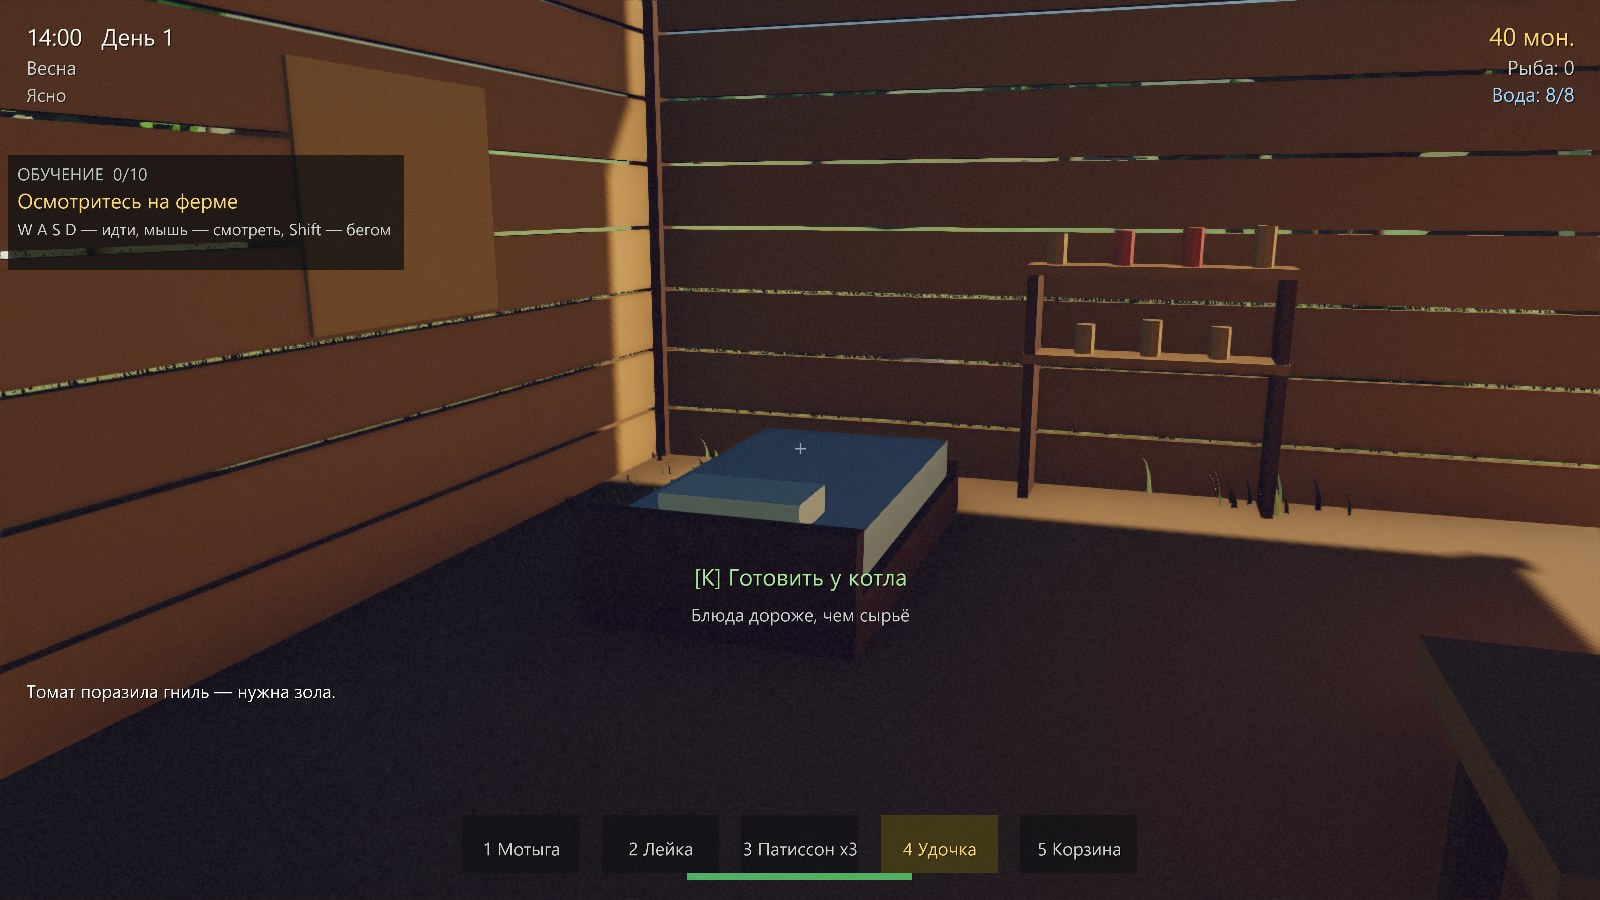
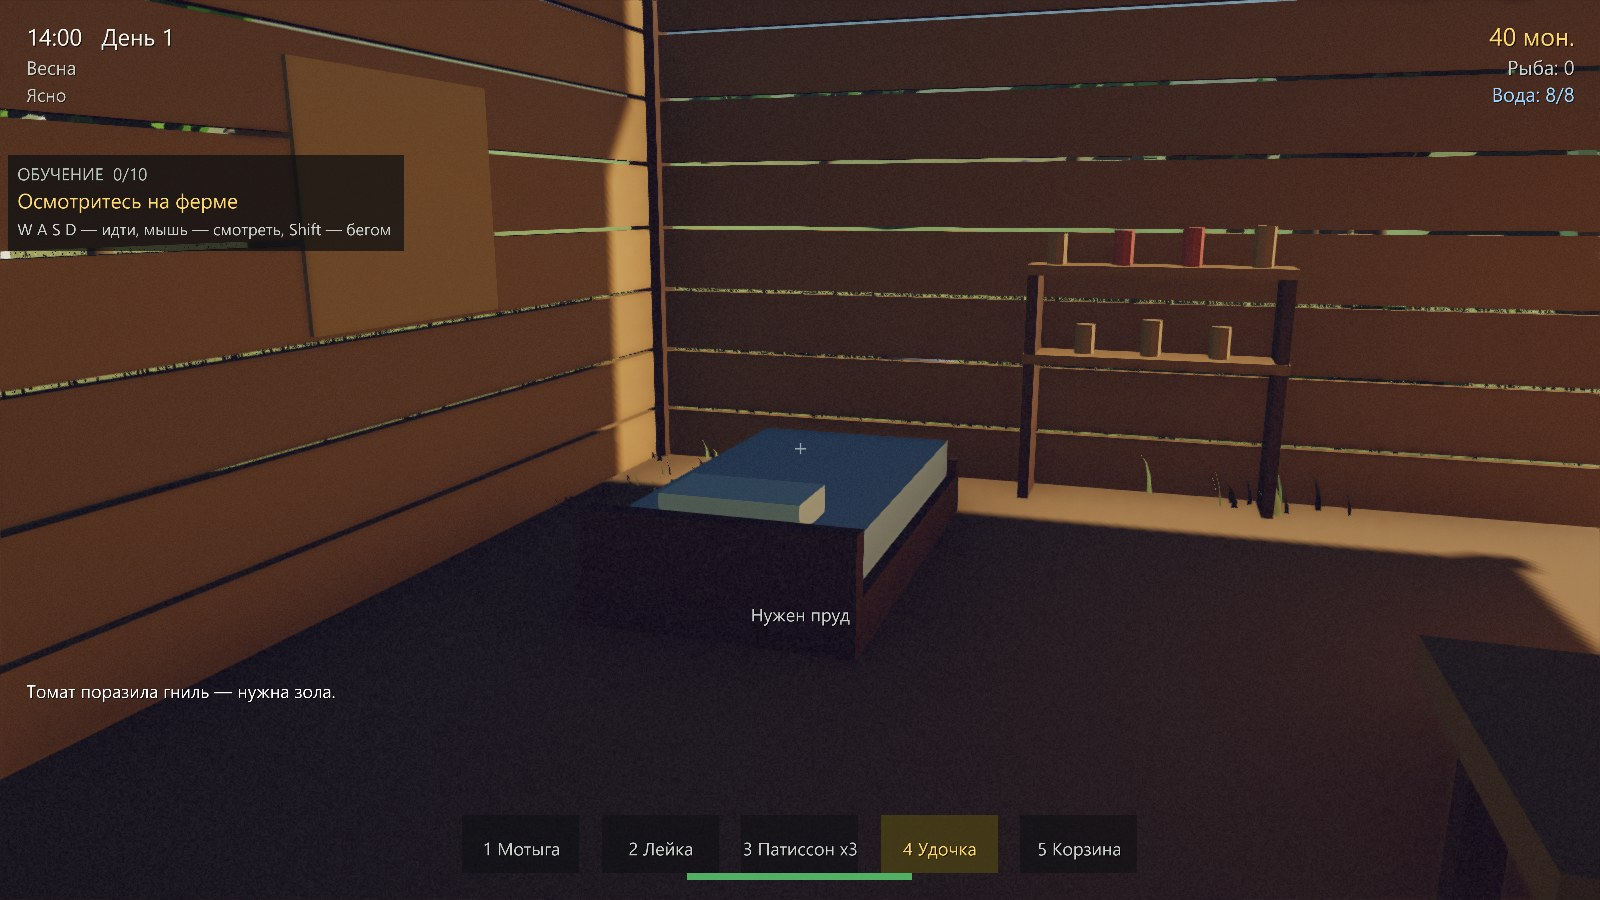
Patisson 2.0: prompts stop at walls
The cooking pot stands about two metres from the house and its interact
radius reaches four and a half, so 201 places a player can stand inside
the house offered "[K] Готовить" at a cauldron on the other side of a
wall. The committed screenshot of the house interior has been showing
that prompt this whole time -- it is in 07b-house-inside.jpg, over the
bed, in a room with no pot in it.

The radii are round numbers somebody picked. Walls are where the world
actually stops, so the test is no longer only "am I within N metres" but
also "are we on the same side of the walls", read from the layout that
already knows. That covers the stall, the well and the bed too, and any
prop added later.

Two smaller things found on the way. The cauldron had no blocker at all,
so a player could stand in the middle of it; it gets one. And
POT_POSITION was the pot's coordinates written out a second time, next
to the copy in LAYOUT that the map marker and the new blocker read -- it
now comes from the layout.

Check 65 sweeps every standable spot around the stall, pot, well and bed
and asks the game's own _near_* whether the prompt fires. It fails on the
old code with "котёл: подсказка работает из (12.2, -11.1) — это house, а
сам объект снаружи". The first draft of the sweep repeated the distance
test instead of calling the game, and went on reporting the bug after it
was fixed; that is why it calls the real predicate.

diff --git a/patisson2/tools/smoke.py b/patisson2/tools/smoke.py
@@ -438,6 +438,60 @@ def run() -> int:
             assert here >= water, f"«{label}»: игрок оказался в воде"
     check("перенос ставит на твёрдое", travel_lands_somewhere_standable)
 
+    def prompts_stop_at_walls():
+        """No prompt may reach through a wall.
+
+        The cooking pot stands about two metres from the house and its
+        prompt reached four and a half, so 201 places a player can stand
+        *inside the house* were offered "[K] Готовить" at a cauldron on
+        the other side of a wall. The radii are round numbers somebody
+        picked; walls are where the world actually stops. Every spot is
+        judged by the game's own `_near_*`, not by repeating the distance
+        test here — the first version of this sweep repeated it and went
+        on reporting the bug after it was fixed.
+        """
+        from ..game.cooking import POT_POSITION
+        from ..world.layout import LAYOUT, indoors_at
+
+        sx, sy, _sh = LAYOUT["market_stall"]
+        wx, wy, _wh = LAYOUT["well"]
+        bx, by = app.props.bed_pos[0], app.props.bed_pos[1]
+        spots = (("прилавок", sx, sy, 4.0, app._near_stall),
+                 ("котёл", POT_POSITION[0], POT_POSITION[1], 4.5, app._near_pot),
+                 ("колодец", wx, wy, 3.0, app._near_well),
+                 ("кровать", bx, by, 1.9, app._near_bed))
+        keep = (app.player.pos.x, app.player.pos.y)
+        step = 0.3
+        try:
+            for name, px, py, radius, near in spots:
+                room = indoors_at(px, py)
+                reach, wrong = 0, None
+                n = int(radius / step) + 1
+                for i in range(-n, n + 1):
+                    for j in range(-n, n + 1):
+                        x, y = px + i * step, py + j * step
+                        z = app.world.height_at(x, y)
+                        if z <= app.cfg.world.water_level + 0.05:
+                            continue
+                        nx, ny = app.world.blockers.resolve(x, y, 0.34, z)
+                        if (nx - x) ** 2 + (ny - y) ** 2 > 1e-6:
+                            continue          # solid: nobody can stand here
+                        stand(x, y)
+                        if not near():
+                            continue
+                        reach += 1
+                        if wrong is None and indoors_at(x, y) != room:
+                            wrong = (x, y, indoors_at(x, y))
+                assert reach > 0, \
+                    f"{name}: подсказка не появляется вообще нигде"
+                assert wrong is None, \
+                    f"{name}: подсказка работает из ({wrong[0]:.1f}, " \
+                    f"{wrong[1]:.1f}) — это {wrong[2] or 'снаружи'}, " \
+                    f"а сам объект {room or 'снаружи'}"
+        finally:
+            stand(*keep)
+    check("подсказки не проходят сквозь стены", prompts_stop_at_walls)
+
     def schedules_are_walkable():
         """Villagers must stand somewhere a person could stand, and get there.
 

diff --git a/patisson2/app.py b/patisson2/app.py
@@ -804,14 +804,31 @@ class PatissonApp(ShowBase):
 
     # ----------------------------------------------------------- interaction
 
+    def _same_room(self, x: float, y: float) -> bool:
+        """Is that spot on the player's side of the walls?
+
+        The interact radii are round numbers somebody chose; walls are
+        where the world actually stops. The cooking pot stands about two
+        metres from the house and its prompt reaches four and a half, so
+        201 places a player can stand *inside the house* were offered
+        "[K] Готовить" at a cauldron on the other side of a wall.
+        """
+        from .world.layout import indoors_at
+        return indoors_at(x, y) == indoors_at(self.player.pos.x,
+                                              self.player.pos.y)
+
     def _near_stall(self) -> bool:
         from .world.props import LAYOUT
         sx, sy, _h = LAYOUT["market_stall"]
-        return (self.player.pos.x - sx) ** 2 + (self.player.pos.y - sy) ** 2 < 16.0
+        return ((self.player.pos.x - sx) ** 2
+                + (self.player.pos.y - sy) ** 2 < 16.0
+                and self._same_room(sx, sy))
 
     def _near_pot(self) -> bool:
         px, py = POT_POSITION
-        return (self.player.pos.x - px) ** 2 + (self.player.pos.y - py) ** 2 < 20.0
+        return ((self.player.pos.x - px) ** 2
+                + (self.player.pos.y - py) ** 2 < 20.0
+                and self._same_room(px, py))
 
     def _near_bed(self, reach: float = 1.9) -> bool:
         bed = getattr(self.props, "bed_pos", None)
@@ -819,7 +836,8 @@ class PatissonApp(ShowBase):
             return False
         dx = self.player.pos.x - bed[0]
         dy = self.player.pos.y - bed[1]
-        return dx * dx + dy * dy < reach * reach
+        return (dx * dx + dy * dy < reach * reach
+                and self._same_room(bed[0], bed[1]))
 
     def _sleep(self):
         """Sleep through to six in the morning, waking rested."""
@@ -835,7 +853,9 @@ class PatissonApp(ShowBase):
     def _near_well(self) -> bool:
         from .world.props import LAYOUT
         wx, wy, _h = LAYOUT["well"]
-        return (self.player.pos.x - wx) ** 2 + (self.player.pos.y - wy) ** 2 < 9.0
+        return ((self.player.pos.x - wx) ** 2
+                + (self.player.pos.y - wy) ** 2 < 9.0
+                and self._same_room(wx, wy))
 
     def _near_water(self) -> bool:
         p = self.player.pos

diff --git a/patisson2/world/props.py b/patisson2/world/props.py
@@ -154,6 +154,10 @@ class Props:
         self.world.blockers.add_post(wx, wy, 0.95, top=1.2)
         sx, sy, sh = LAYOUT["market_stall"]
         self.world.blockers.add_box(sx, sy, 1.25, 0.55, sh, top=1.3)
+        # The cauldron had no blocker at all: you could stand in the middle
+        # of it, and the map put a marker where nothing stopped you.
+        cx, cy, _ch = LAYOUT["cooking_pot"]
+        self.world.blockers.add_post(cx, cy, 0.55, top=1.0)
         # A few crates and barrels for dressing.
         for x, y, name in ((14.0, -8.6, "crate"), (13.2, -7.6, "crate"),
                            (-16.5, -12.0, "barrel"), (-15.6, -12.4, "barrel"),

diff --git a/patisson2/game/cooking.py b/patisson2/game/cooking.py
@@ -8,10 +8,13 @@ from __future__ import annotations
 
 from dataclasses import dataclass
 
+from ..world.layout import LAYOUT
 from .farming import CROPS
 from .livestock import PRODUCT_NAMES, PRODUCT_PRICE
 
-POT_POSITION = (13.4, -8.4)
+# Read from the layout rather than written out again: the pot, its blocker
+# and its marker on the map all have to stand in the same spot.
+POT_POSITION = LAYOUT["cooking_pot"][:2]
 
 
 @dataclass(frozen=True)

diff --git a/README.md b/README.md
@@ -93,7 +93,7 @@ python -m patisson2.tools.make_assets
 python -m patisson2.tools.shots
 ```
 
-Прогнать все действия игрока разом — 64 проверки, от вспашки до загрузки
+Прогнать все действия игрока разом — 65 проверок, от вспашки до загрузки
 сохранения. Тоже без окна, выходит с ненулевым кодом, если что-то сломалось.
 **Шестнадцать действий он выполняет клавишей**, встав и прицелившись туда же,
 куда встал бы игрок, и проверяет, что мир изменился, — а не что вызов не упал.
@@ -379,6 +379,17 @@ SSAO и лучи солнца выключаются, тени падают до
   хотя класс `Upgrades` прямо обещает обратное. Полить 24 грядки как следует —
   это около 82 доз воды в день; лейка за 220 монет убирала из этой рутины 6
   действий из 93. Теперь 93 → 21 → 12.
+- **Подсказки не проходят сквозь стены.** Радиусы взаимодействия — круглые
+  числа, выбранные на глаз, а стены — то место, где мир на самом деле
+  кончается. Котёл стоит примерно в двух метрах от дома, а его подсказка
+  доставала на четыре с половиной: **201 точка внутри дома**, где можно стоять,
+  предлагала «[K] Готовить» у котла по ту сторону стены. Теперь условие берётся
+  не из радиуса, а из планировки: объект и игрок должны быть по одну сторону
+  стен. Заодно у котла вообще не было столкновения — в него можно было встать.
+  Проверка обходит все точки вокруг прилавка, котла, колодца и кровати и
+  спрашивает **саму игру**, а не повторяет расчёт расстояния: первая версия
+  этой проверки расстояние повторила и продолжала рапортовать о баге уже после
+  того, как он был исправлен.
 - **Цена улучшения отвечает за то, что оно даёт.** Корзина — единственный
   инструмент, который печатает монеты, а не экономит труд, и печатает много:
   лишний плод с каждой грядки больше чем удваивает доход фермы (256 → 570 мон.
